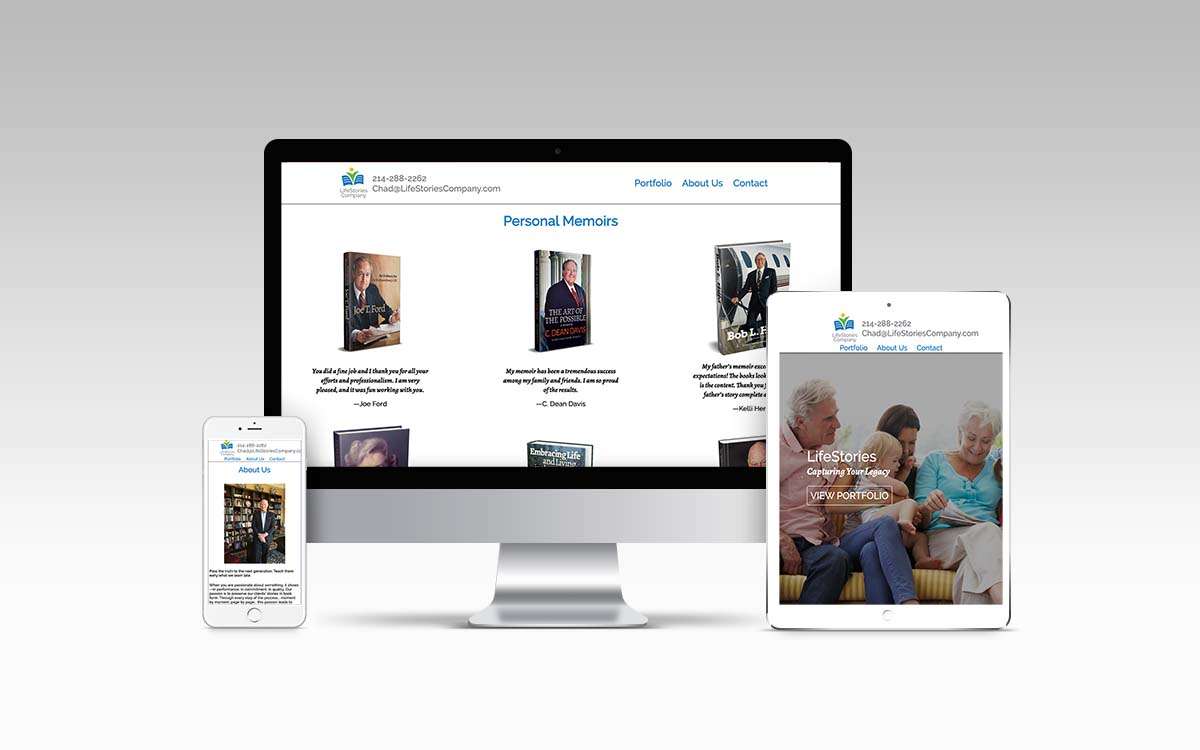
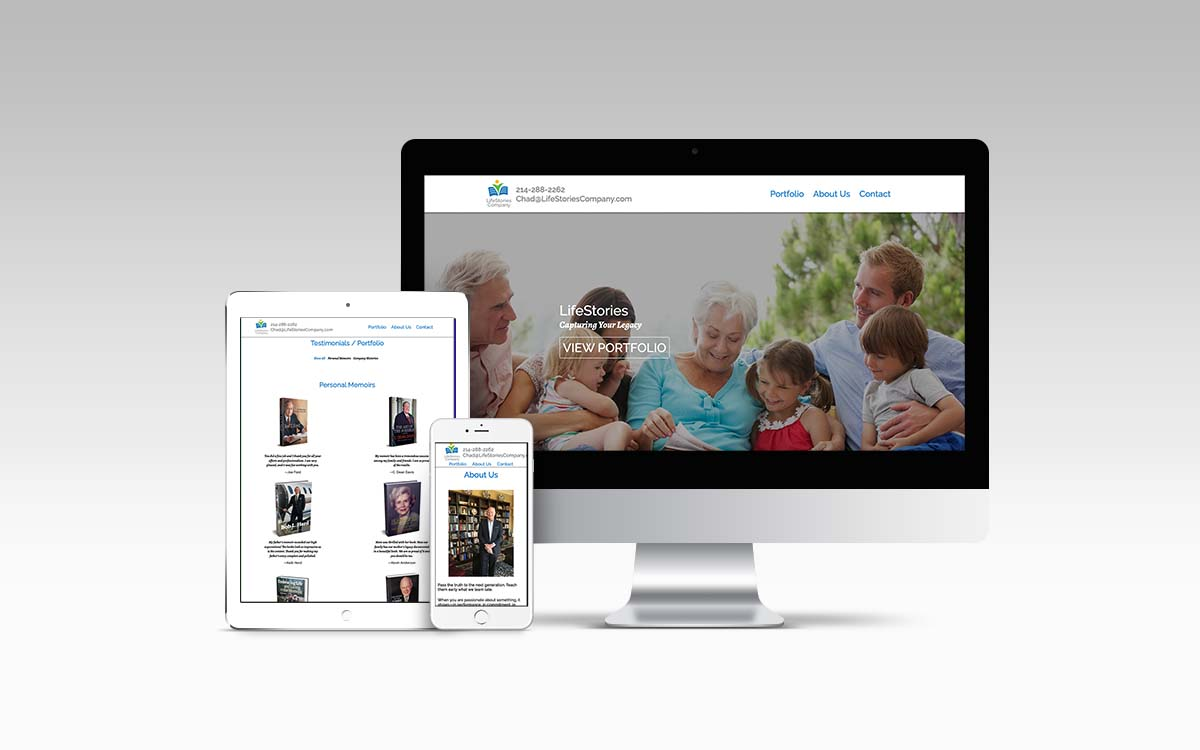
update

diff --git a/index.html b/index.html
@@ -74,35 +74,27 @@
   Hand crafted experiences for the digital world.
 </div>
 <div id="homeportbtns">
-  DESIGN | DEVELOPMENT
+  DESIGNS | DEVELOPMENTS
 </div>
 
 <section id="homeport">
 
+  <a style="cursor: pointer" onclick="visitLink('https://farseeranalytics.com/')" class="portitem">
+    <img src="./images/far-seer-website.jpg">
+    <div id="">Far Seer Analytics | Website Design and Development</div>
+  </a>
+
   <a style="cursor: pointer" onclick="visitLink('https://lifestoriescompany.com')" class="portitem">
     <img src="./images/chad-website.jpg">
-    <div id="porsche-info">Life Stories Company | Company Website</div>
+    <div id="">Life Stories Company | Website Design and Development</div>
   </a>
 
   <a style="cursor: pointer" onclick="visitLink('https://www.behance.net/gallery/113707929/Walker-Custom-Exteriors-Logo-and-Business-Card-Design')" class="portitem">
     <img src="./images/walker-custom.jpg">
-    <div id="">Walker Custom Exteriors | Logo & Branding Design</div>
+    <div id="">Walker Custom Exteriors | Logo Design</div>
   </a>
 
-  <a style="cursor: pointer" onclick="visitLink('https://www.behance.net/gallery/134288655/Far-Seer-Analytics-Logo')" class="portitem">
-    <img src="./images/the-fsa-logo-green.jpg">
-    <div id="">Far Seer Analytics | Logo & Branding Design</div>
-  </a>
 
-  <a style="cursor: pointer" onclick="visitLink('portfolio-porsche.html')" class="portitem">
-    <img src="./images/porsche-portfolio-img.jpg">
-    <div id="porsche-info">Park Place Porsche | Sales Experience Manager Personal Website, Logo & Branding Design</div>
-  </a>
-
-  <a style="cursor: pointer" onclick="visitLink('portfolio-wellington.html')" class="portitem">
-    <img src="./images/wellington-portfolio-img.jpg">
-    <div id="wellington-info">Wellington Realty | Brokerage Associate Personal Website, Logo & Branding Design</div>
-  </a>
 
   <a style="cursor: pointer" onclick="visitLink('https://www.behance.net/gallery/101580533/KEVIN-CURTIS-WALKER-PHOTOGRAPHY-LOGO')" class="portitem">
     <img src="./images/kcw-logo.jpg">
@@ -114,9 +106,21 @@
     <div id="">Red and Fitz Podcast | Logo Design</div>
   </a>
 
-  <a style="cursor: pointer" onclick="visitLink('https://www.behance.net/gallery/134289419/SHIRLEY-SHREDDER-Social-Media-Logo')" class="portitem">
-    <img src="./images/shredder-logo-black-bg.png">
-    <div id="">SHIRLEY SHREDDER | Social Media Logo</div>
+  <a style="cursor: pointer" onclick="visitLink('https://www.behance.net/gallery/134288655/Far-Seer-Analytics-Logo')" class="portitem">
+    <img src="./images/the-fsa-logo-green.jpg">
+    <div id="">Far Seer Analytics | Logo Design</div>
+  </a>
+
+
+
+  <a style="cursor: pointer" onclick="visitLink('portfolio-porsche.html')" class="portitem">
+    <img src="./images/porsche-portfolio-img.jpg">
+    <div id="porsche-info">Sales Experience Manager for Porsche | Mock Up Website Design and Development | Mock Up Logo & Banner Ad Design | Project Study</div>
+  </a>
+
+  <a style="cursor: pointer" onclick="visitLink('portfolio-wellington.html')" class="portitem">
+    <img src="./images/wellington-portfolio-img.jpg">
+    <div id="wellington-info">Brokerage Associate for Wellington Realty | Mock Up Website Design and Development | Mock Up Logo & Banner Ad Design | Project Study</div>
   </a>
 
 
@@ -248,7 +252,7 @@
     <div class="textbg2">
 
       <div class="hahead">
-        I've been at creative work for years, in multiple fields.
+        I've been at creative and technical work for years, in multiple fields.
       </div>
 
       <div class="hapara" id="hapara2">
